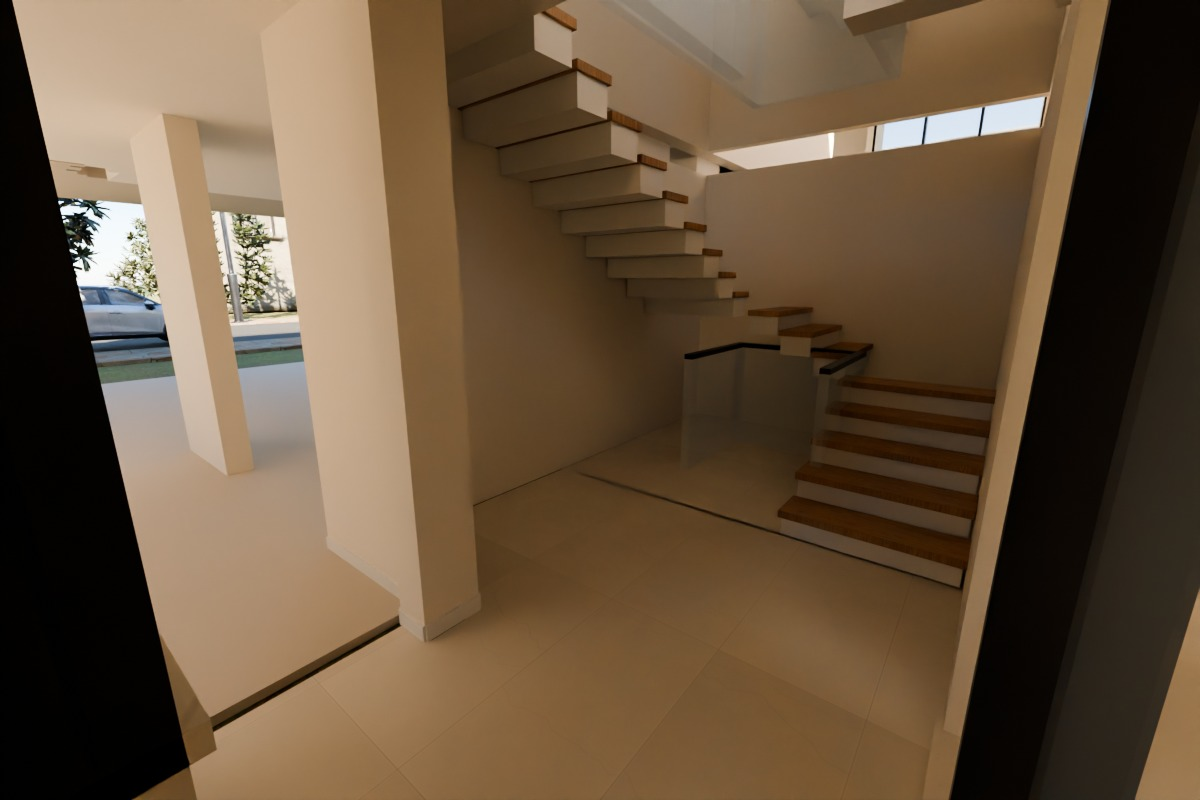
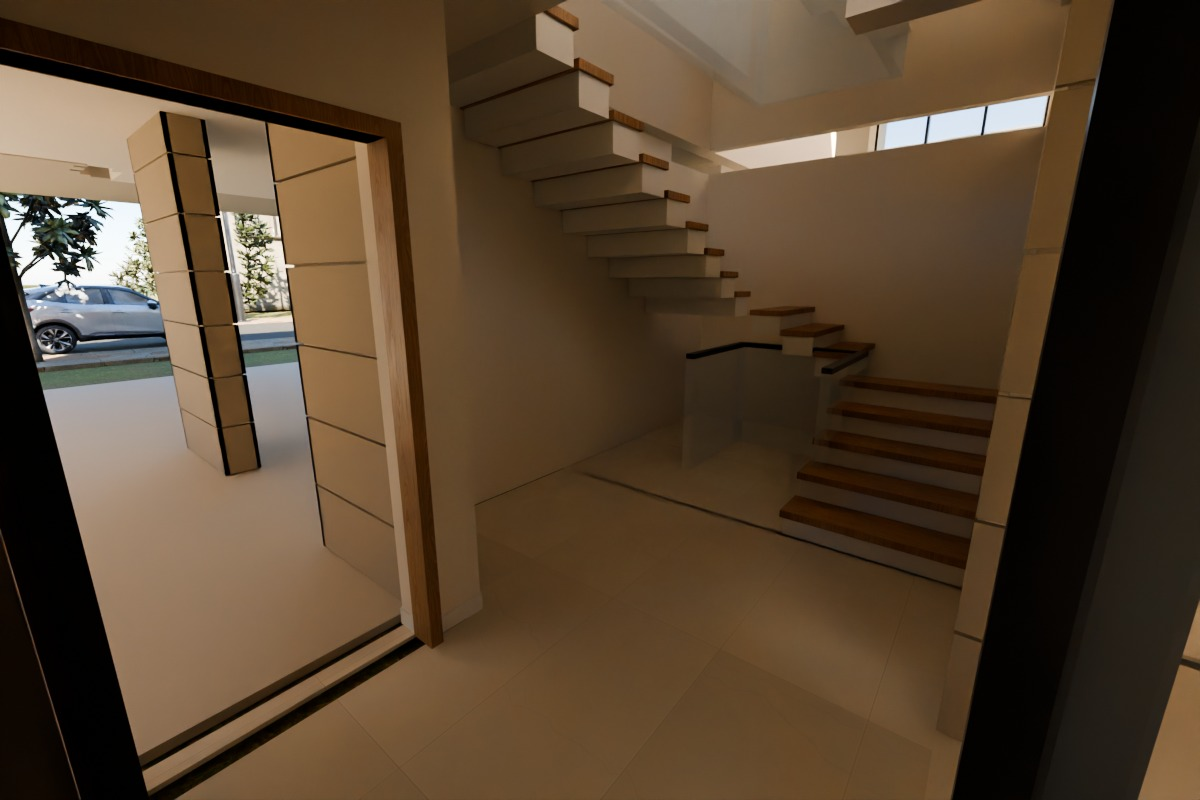
Static build can open straight into a house (VITE_START), for embedded previews
Claude-Session: https://claude.ai/code/session_017QS7qnCRtyksv7J854EsP1

diff --git a/apps/web/src/main.tsx b/apps/web/src/main.tsx
@@ -1,8 +1,12 @@
 import { StrictMode, Suspense, lazy } from 'react'
 import { createRoot } from 'react-dom/client'
-import { BrowserRouter, HashRouter, Routes, Route } from 'react-router'
+import { BrowserRouter, HashRouter, MemoryRouter, Routes, Route } from 'react-router'
+import type { ReactNode } from 'react'
 import { STATIC } from './api'
-const Router = STATIC ? HashRouter : BrowserRouter
+// A static build can be told where to open (VITE_START=/h/<house>): it then keeps its address in memory, for hosts
+// that give the page no address bar of its own (an embedded preview).
+const START = import.meta.env.VITE_START as string | undefined
+const Router = ({ children }: { children: ReactNode }) => (STATIC && START ? <MemoryRouter initialEntries={[START]}>{children}</MemoryRouter> : STATIC ? <HashRouter>{children}</HashRouter> : <BrowserRouter>{children}</BrowserRouter>)
 import './styles/tokens.css'
 import Landing from './pages/Landing'
 // The 3D viewer (three.js ≈ 220 kB gzip) loads only when a walkthrough is opened
